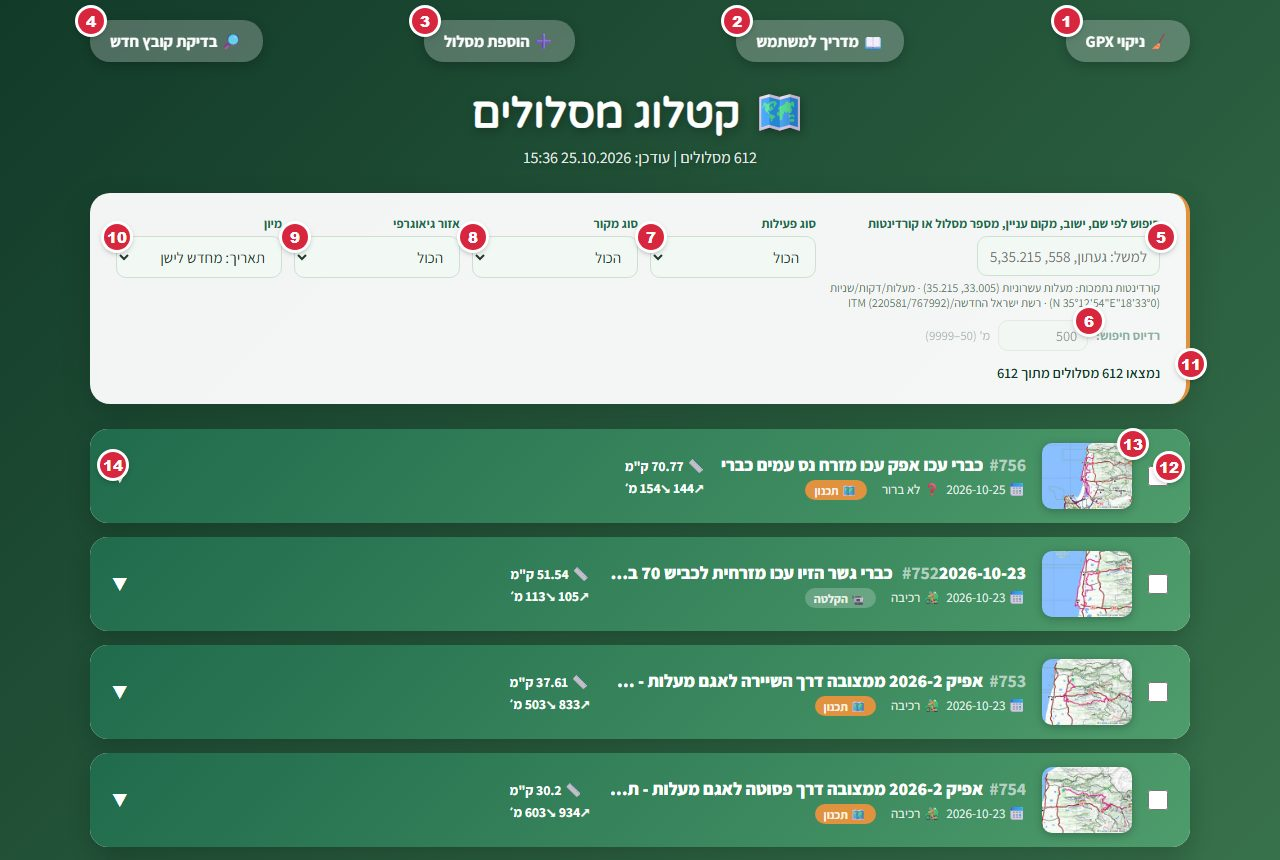
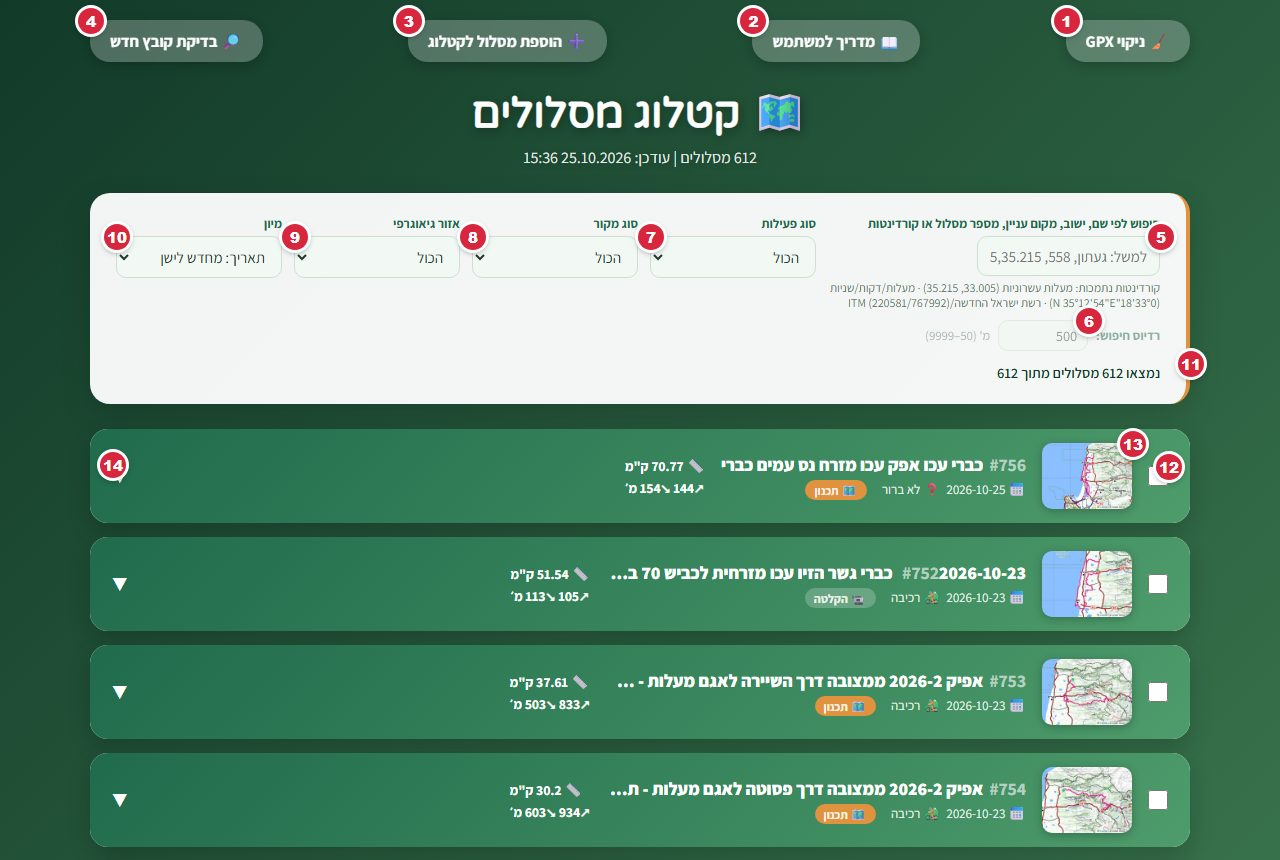
User guide: rename add-route button to 'הוספת מסלול לקטלוג', retake catalog screenshot

Changed region(s): [[0.3125, 0.0, 0.5, 0.0907], [0.5625, 0.0, 0.7188, 0.0907]]

diff --git a/YR1/bike/user_guide/user_guide.html b/YR1/bike/user_guide/user_guide.html
@@ -118,7 +118,7 @@ footer{text-align:center;color:#5C7A6B;font-size:.9rem;padding:10px 16px 30px}
     <tr><th>#</th><th>כפתור / שדה</th><th>מה הוא עושה</th></tr>
     <tr><td><span class="n">1</span></td><td>🧹 ניקוי GPX</td><td>מעבר לדף <a href="#cleaner">ניקוי קובץ GPX</a>.</td></tr>
     <tr><td><span class="n">2</span></td><td>📖 מדריך למשתמש</td><td>פותח את המדריך הזה.</td></tr>
-    <tr><td><span class="n">3</span></td><td>➕ הוספת מסלול</td><td>פותח את <a href="#add-route">טופס הוספת מסלול</a>, לשליחת מסלול שלכם לקטלוג.</td></tr>
+    <tr><td><span class="n">3</span></td><td>➕ הוספת מסלול לקטלוג</td><td>פותח את <a href="#add-route">טופס הוספת מסלול</a>, לשליחת מסלול שלכם לקטלוג.</td></tr>
     <tr><td><span class="n">4</span></td><td>🔎 בדיקת קובץ חדש</td><td>מעבר לדף <a href="#upload">עריכת מסלול חדש</a>, לפתיחת קובץ GPX מהמחשב.</td></tr>
     <tr><td><span class="n">5</span></td><td>תיבת החיפוש</td><td>חיפוש לפי שם מסלול, ישוב, מקום עניין, מספר מסלול או קורדינטות. התוצאות מתעדכנות תוך כדי הקלדה. ראו <a href="#catalog-search">חיפוש, סינון ומיון</a>.</td></tr>
     <tr><td><span class="n">6</span></td><td>רדיוס חיפוש</td><td>פעיל רק בחיפוש לפי קורדינטות: מציג מסלולים שעוברים במרחק הזה מהנקודה. בין 50 ל-9999 מטר, ברירת המחדל 500.</td></tr>
@@ -445,7 +445,7 @@ footer{text-align:center;color:#5C7A6B;font-size:.9rem;padding:10px 16px 30px}
 
 <section id="add-route">
   <h2>➕ הוספת מסלול לקטלוג</h2>
-  <p>רכבתם או הלכתם במסלול שלא נמצא בקטלוג? אפשר לשלוח אותו בטופס. המסלול נשלח במייל למנהל האתר, נבדק, ומתווסף לקטלוג עם ההערות ומקומות העניין שכתבתם. נכנסים לטופס מכפתור <b>➕ הוספת מסלול</b> בראש הקטלוג.</p>
+  <p>רכבתם או הלכתם במסלול שלא נמצא בקטלוג? אפשר לשלוח אותו בטופס. המסלול נשלח במייל למנהל האתר, נבדק, ומתווסף לקטלוג עם ההערות ומקומות העניין שכתבתם. נכנסים לטופס מכפתור <b>➕ הוספת מסלול לקטלוג</b> בראש הקטלוג.</p>
   <figure><img src="img/add-route.jpg" alt="טופס הוספת מסלול" loading="lazy"><figcaption>טופס הוספת מסלול, עם קובץ שנבחר</figcaption></figure>
   <div class="task">
     <h4>לשלוח מסלול</h4>
